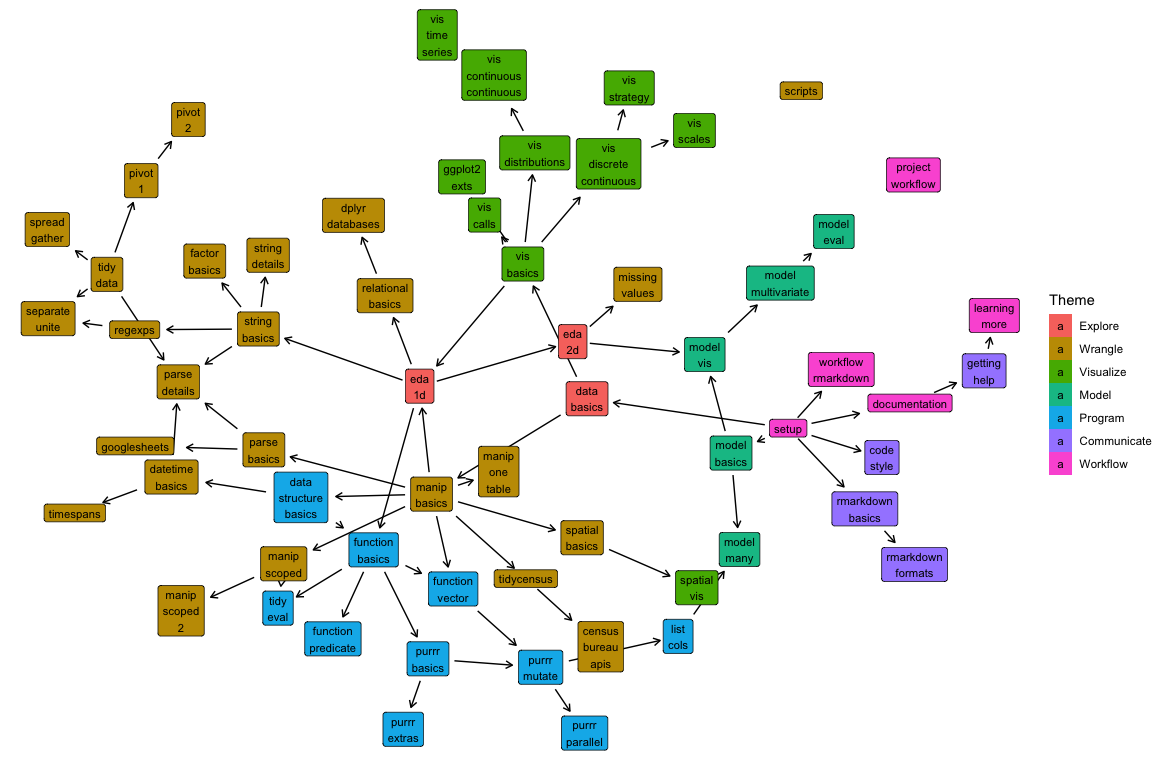
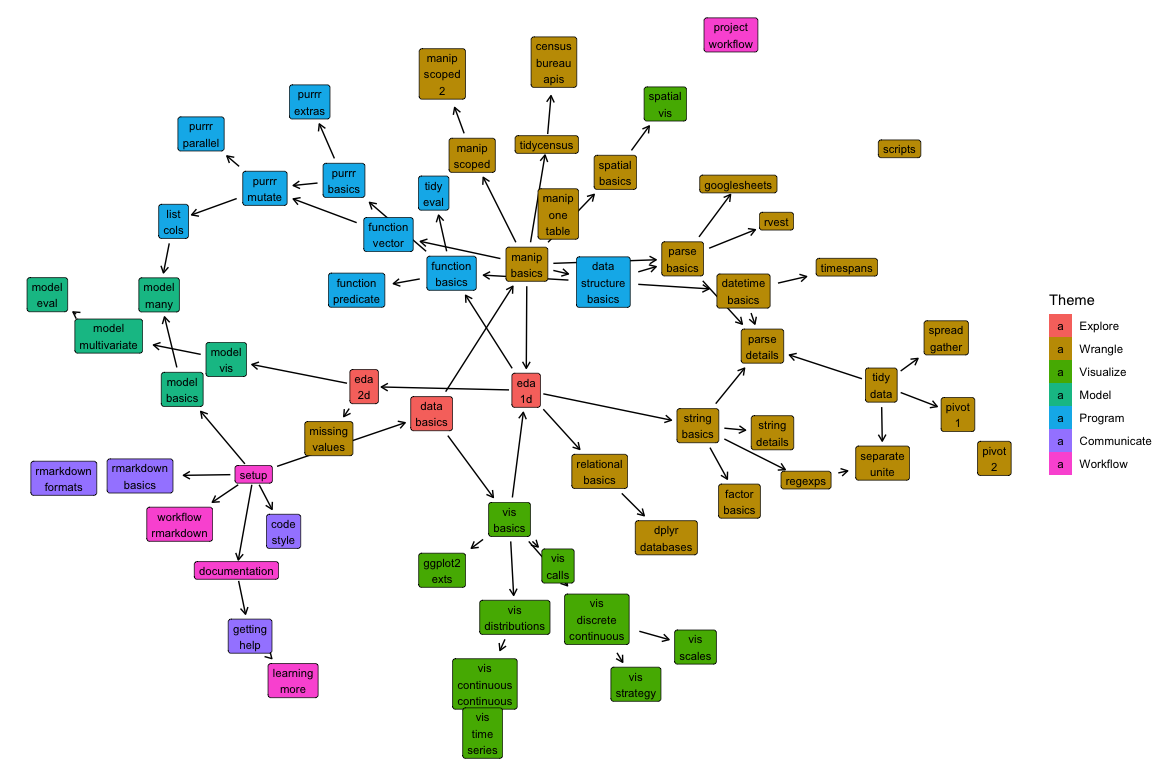
Update for week 7

diff --git a/docs/index.md b/docs/index.md
@@ -294,4 +294,30 @@ title: Theme index
   <td colspan="5"></td>
 </tr>
 </tbody>
+<tbody>
+<tr>
+<td id='week-7'>7</td>
+  <td colspan="4"></td>
+  <td colspan="6"><a class="program" href="purrr-parallel.html">purrr map with multiple inputs</a></td>
+  <td colspan="2"></td>
+</tr>
+<tr>
+<td></td>
+  <td colspan="1"></td>
+  <td colspan="6"><a class="wrangle" href="timespans.html">Time spans</a></td>
+  <td colspan="5"></td>
+</tr>
+<tr>
+<td></td>
+  <td colspan="1"></td>
+  <td colspan="6"><a class="wrangle" href="rvest.html">rvest</a></td>
+  <td colspan="5"></td>
+</tr>
+<tr>
+<td></td>
+  <td colspan="2"></td>
+  <td colspan="6"><a class="visualize" href="spatial-vis.html">Spatial visualization</a></td>
+  <td colspan="4"></td>
+</tr>
+</tbody>
 </table>
